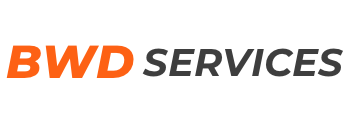
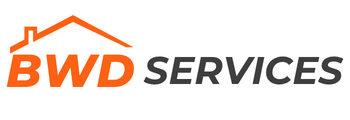
1

Changed region(s): [[0.0, 0.125, 1.0, 0.725]]

diff --git a/components/navbar.html b/components/navbar.html
@@ -3,7 +3,7 @@
 
 <div class="logo">
     <a href="/">
-        <img src="/images/nav1.png" alt="BWD Logo">
+        <img src="/images/nav.png" alt="BWD Logo">
     </a>
 </div>
 <div class="hamburger-wrapper">
